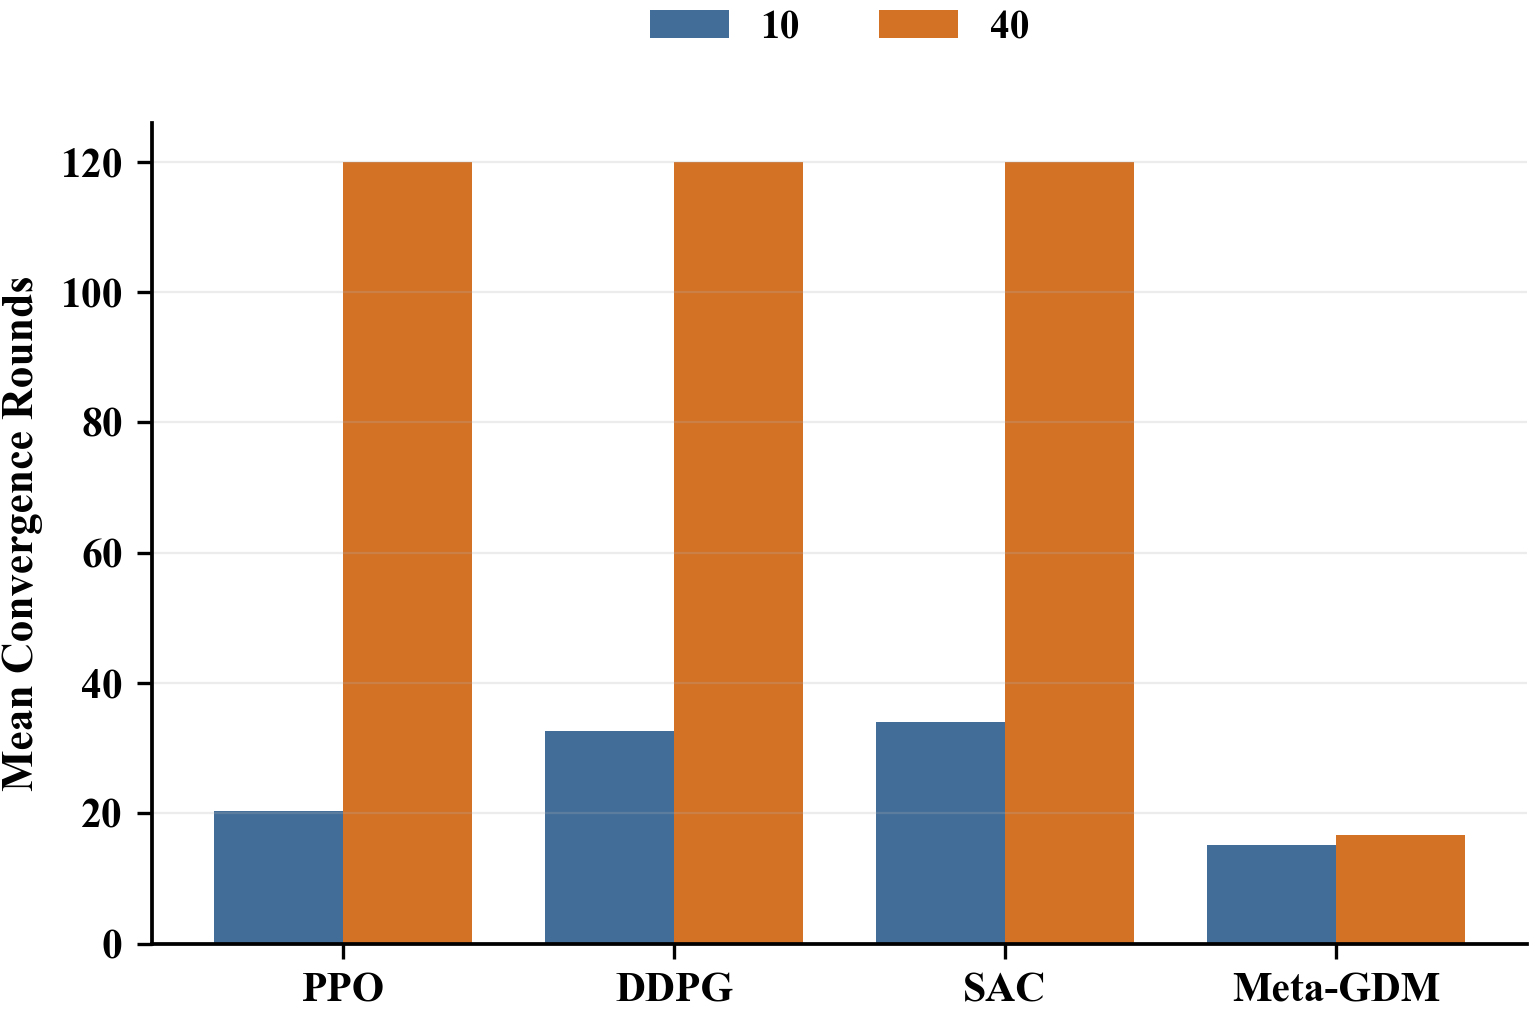
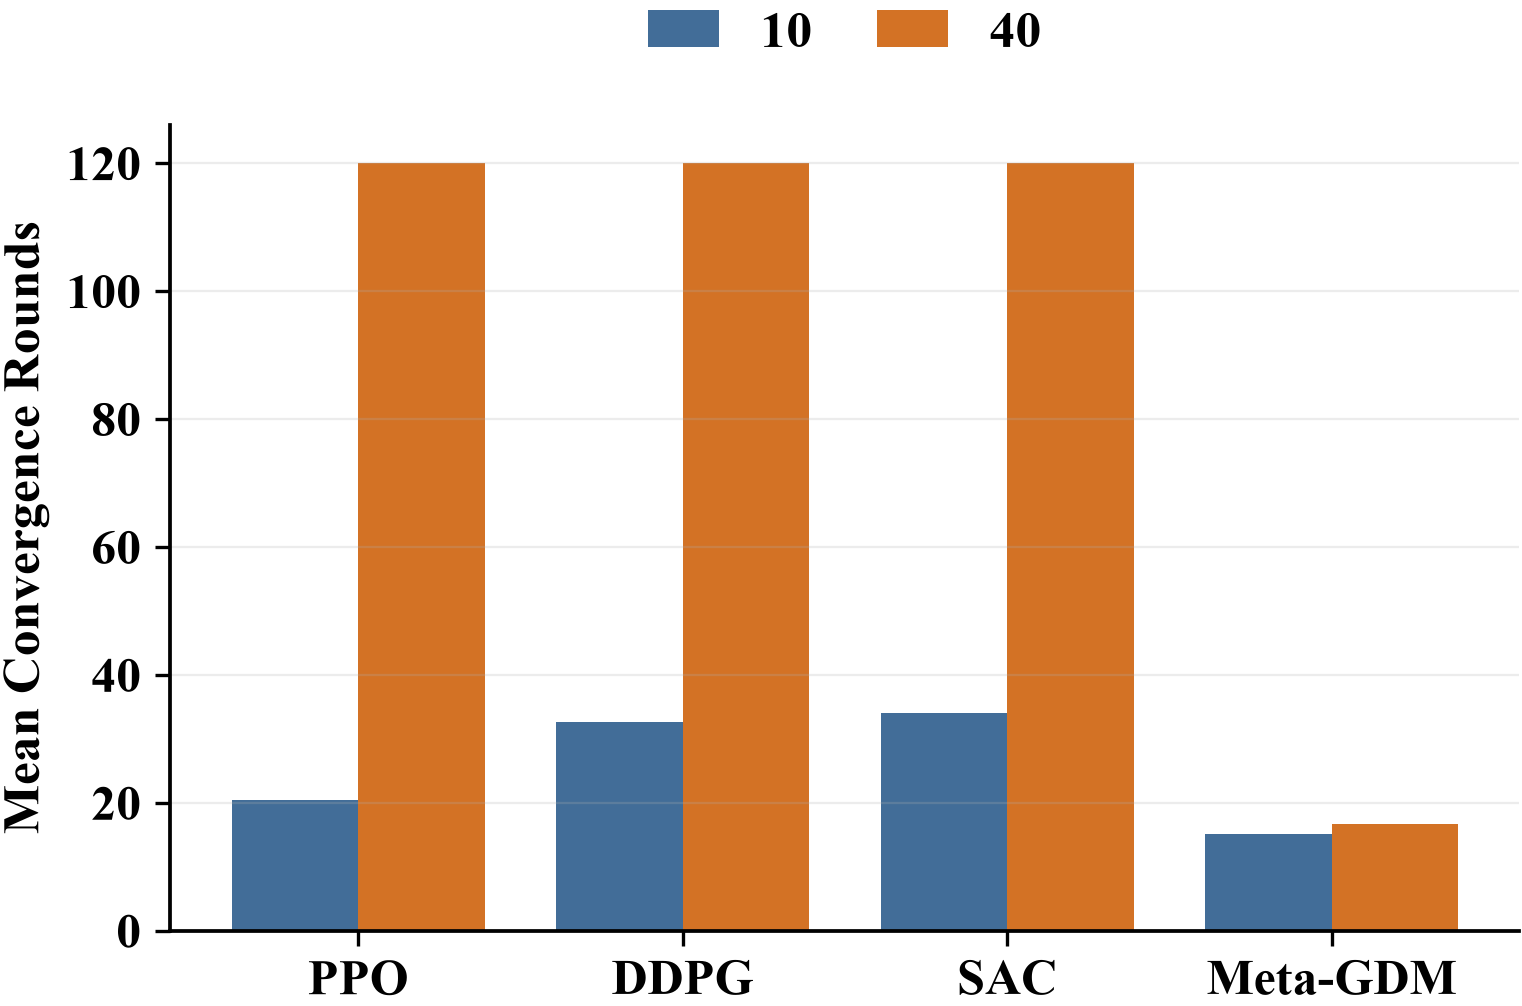
Enlarge paper chart labels and legends

diff --git a/scripts/generate_paper_figures.py b/scripts/generate_paper_figures.py
@@ -100,11 +100,24 @@ def grouped_bars(
         panel = frame[frame[group_col] == group].set_index(x_col)
         values = [float(panel.loc[item, value_col]) * scale for item in x_order]
         offset = (idx - (len(group_order) - 1) / 2) * width
-        ax.bar(x + offset, values, width=width, color=COLORS[idx], label=str(group))
+        legend_label = {"Mean consensus": "Mean", "Bounded confidence": "Confidence", "Observable cost-aware": "Cost-aware"}.get(str(group), str(group))
+        ax.bar(x + offset, values, width=width, color=COLORS[idx], label=legend_label)
     ax.set_xticks(x, [str(item) for item in x_order])
-    ax.set_ylabel(ylabel)
+    ax.tick_params(axis="both", labelsize=12.0)
+    ax.set_ylabel(ylabel, fontsize=12.5, fontweight="bold")
     ax.grid(axis="y")
-    ax.legend(loc="upper center", bbox_to_anchor=(0.5, 1.18), ncol=len(group_order))
+    legend_cols = len(group_order)
+    legend_y = 1.20
+    legend_font = 11.5 if len(group_order) > 2 else 12.5
+    legend_spacing = 0.75 if len(group_order) > 2 else 1.25
+    ax.legend(
+        loc="upper center",
+        bbox_to_anchor=(0.5, legend_y),
+        ncol=legend_cols,
+        fontsize=legend_font,
+        columnspacing=legend_spacing,
+        handlelength=1.35,
+    )
     return save(fig, filename)
 
 
